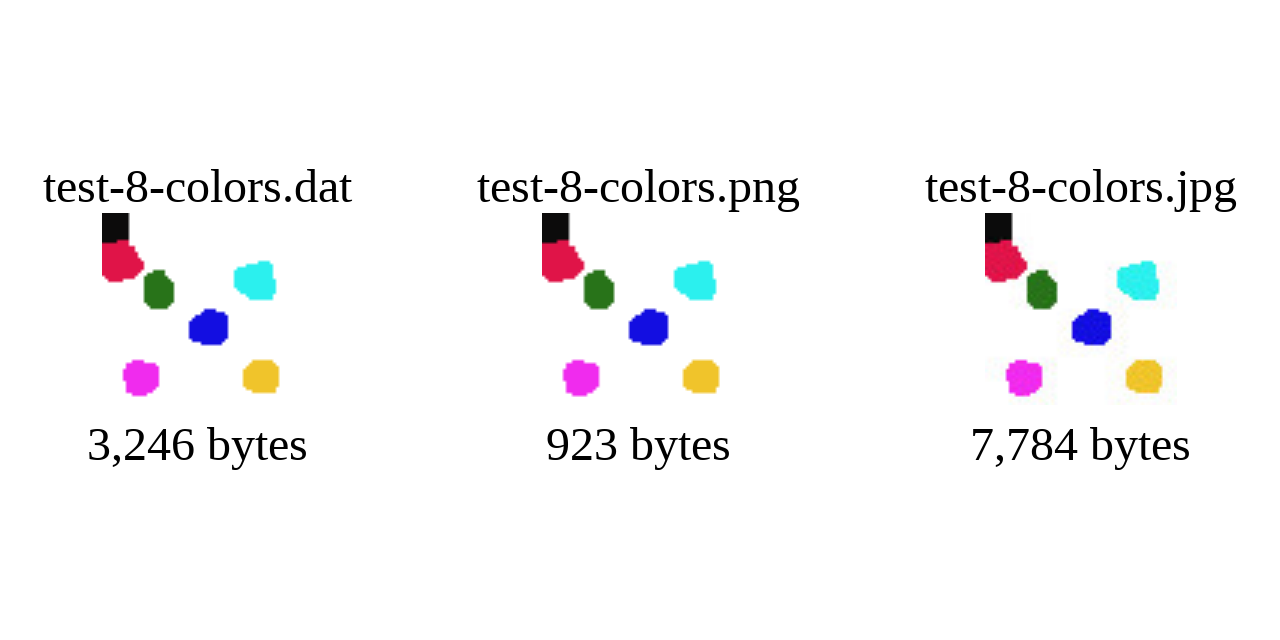
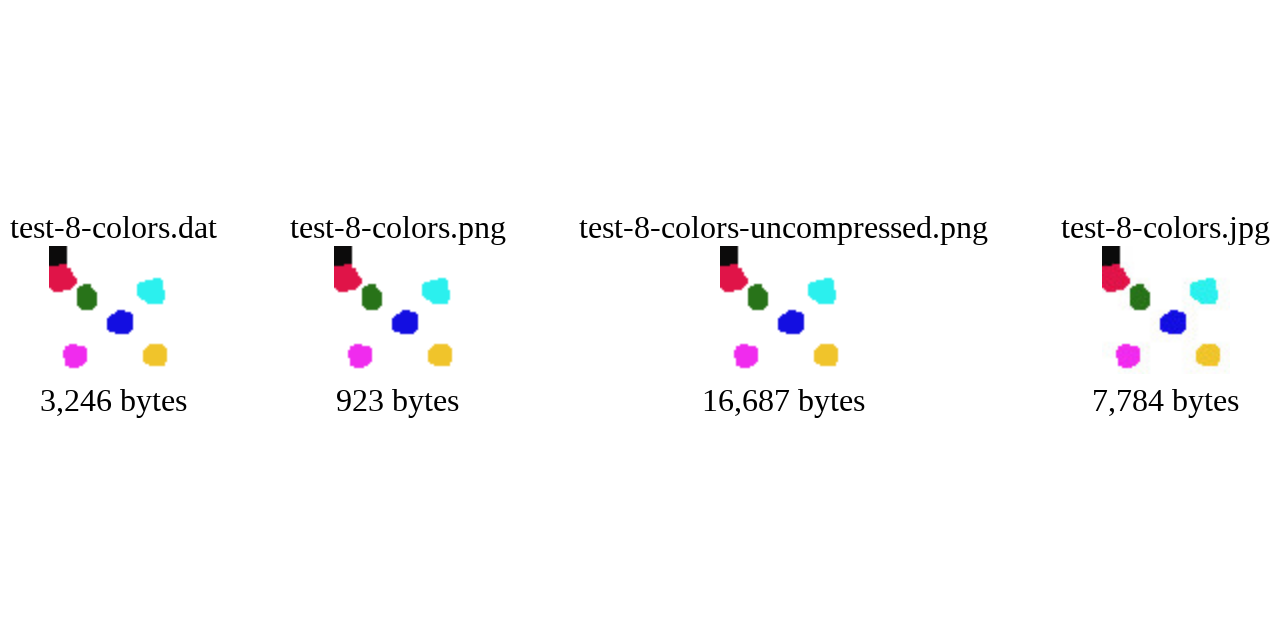
add new comparision

diff --git a/index.html b/index.html
@@ -22,6 +22,12 @@
         <div><img src="test-8-colors.png" width="64" height="64"></div>
         <div>923 bytes</div>
     </div>
+    
+    <div>
+        <div>test-8-colors-uncompressed.png</div>
+        <div><img src="test-8-colors-uncompressed.png" width="64" height="64"></div>
+        <div>16,687 bytes</div>
+    </div>
 
     <div>
         <div>test-8-colors.jpg</div>

diff --git a/README.md b/README.md
@@ -6,7 +6,7 @@ I've created this project for fun. It tries to beat the current PNG format by us
 
 ![comparison](imgREADME/comparison.png)
 
-As you can see, this image files beats a JPG both in quality as in size (for this type of test, large same color area and indexed colors), but looses to a compacted PNG (generated in GIMP).
+As you can see, this image files beats a JPG both in quality as in size (for this type of test, large same color area and indexed colors), but looses to a compacted PNG (generated in GIMP). It beats an uncompressed PNG file though.
 
 ## Headers
 
